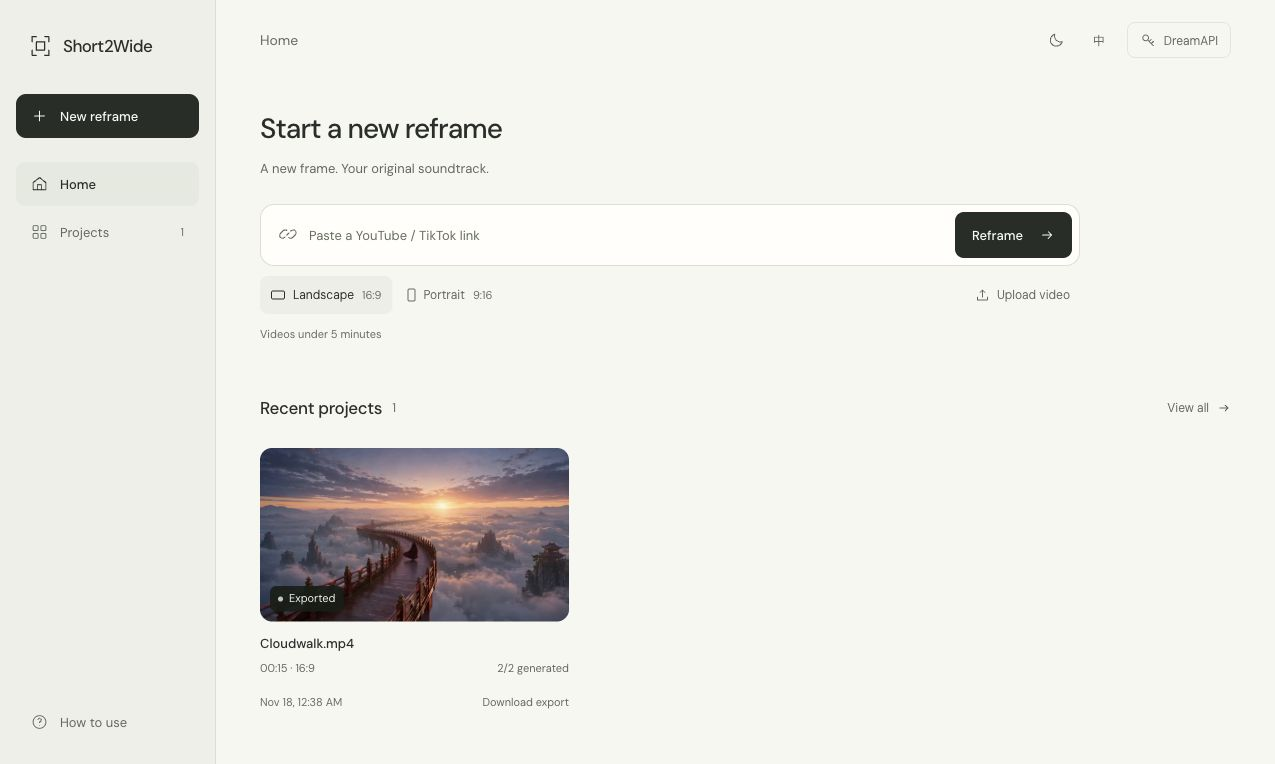
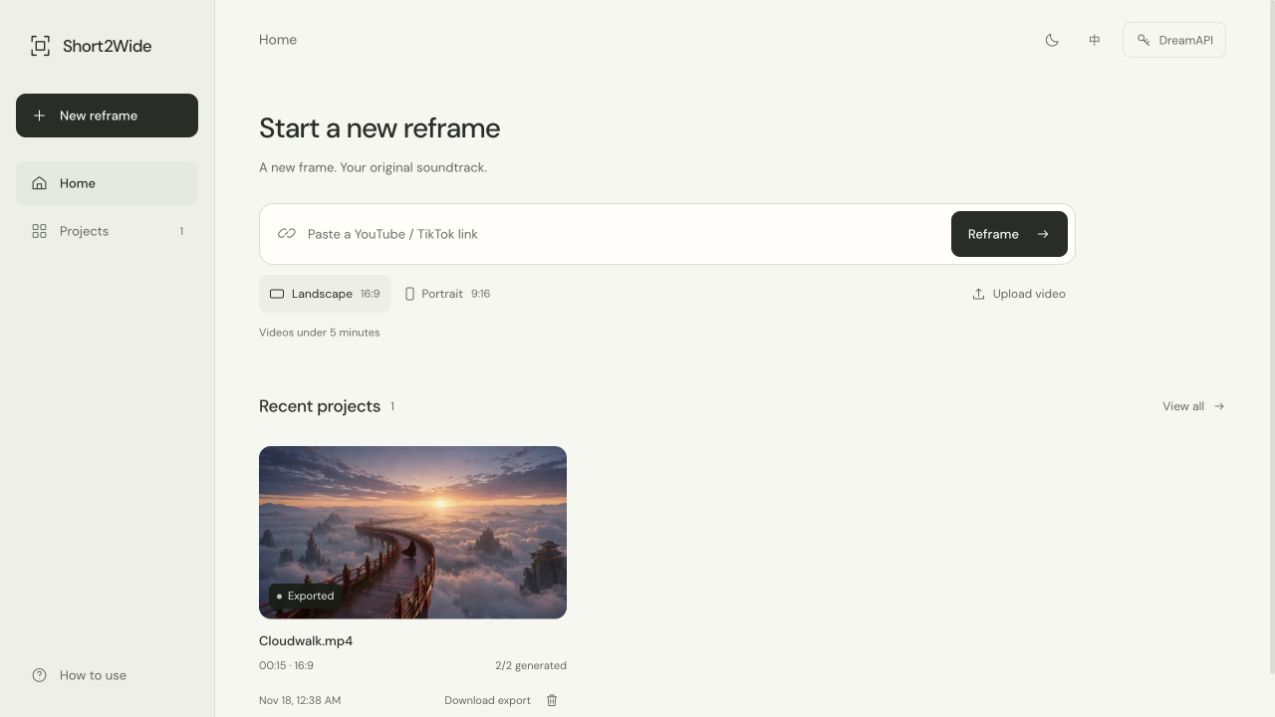
feat: confirm project deletion and retain sidebar in narrow windows

diff --git a/home.css b/home.css
@@ -74,8 +74,22 @@
 .usage-guide ol{list-style:none;margin:0;padding:0}.usage-guide li{padding:22px 0;border-top:1px solid var(--line)}.usage-guide h3{font-size:15px;font-weight:500;margin:0 0 8px}.usage-guide li p,.guide-note{font-size:13px;line-height:1.9;color:var(--secondary);margin:0}.guide-note{margin-top:20px;color:var(--muted)}.guide-start{display:inline-flex;align-items:center;gap:10px;min-height:44px;margin-top:24px;font-size:13px}
 .import-input-wrap .button.is-working:before{content:'';width:12px;height:12px;border:1px solid currentColor;border-right-color:transparent;border-radius:50%;animation:home-upload-spin .85s linear infinite;flex-shrink:0}
 @keyframes home-upload-spin{to{transform:rotate(360deg)}}
+.project-card-bottom>time{min-width:0;white-space:nowrap;overflow:hidden;text-overflow:ellipsis}
+.project-card-actions{display:flex;align-items:center;gap:6px;flex-shrink:0}
+.project-card-actions>a{display:inline-flex;align-items:center;min-height:30px;color:var(--secondary)}.project-card-actions>a:hover{color:var(--text)}
+.project-delete{display:flex;align-items:center;justify-content:center;width:30px;height:30px;padding:0;border-radius:7px;color:var(--muted)}.project-delete svg{width:15px;height:15px}.project-delete:hover:not(:disabled){color:var(--error);background:var(--raised)}
+.delete-dialog{width:min(420px,calc(100% - 32px));padding:28px;border:0;border-radius:16px;background:var(--surface);color:var(--text);box-shadow:0 20px 60px #0003}
+.delete-dialog::backdrop{background:#0006}.delete-dialog h2{font-size:20px;line-height:1.5;font-weight:500;margin:0 0 16px}
+.delete-project-name{font-size:14px;line-height:1.7;font-weight:500;overflow-wrap:anywhere;margin:0 0 10px}
+#delete-dialog-description,.delete-cloud-note{font-size:13px;line-height:1.9;color:var(--secondary);margin:0 0 12px}.delete-cloud-note{color:var(--muted)}
+.delete-dialog-actions{display:flex;justify-content:flex-end;gap:10px;margin-top:24px}.delete-dialog-actions .button{min-height:40px;padding:0 16px;border-radius:9px;font-size:13px}
+.button-danger{background:var(--error);color:var(--ground)}.button-danger:hover{filter:brightness(.95)}
+.delete-dialog .button.is-working:before{content:'';width:12px;height:12px;border:1px solid currentColor;border-right-color:transparent;border-radius:50%;animation:home-upload-spin .85s linear infinite}
+@media(prefers-reduced-motion:reduce){.delete-dialog .button.is-working:before{animation:none}}
 @media(min-width:1500px){.projects-grid{grid-template-columns:repeat(4,minmax(0,1fr))}}
 @media(max-width:1050px){.home-sidebar{width:188px;padding:26px 12px 18px}.home-shell{margin-left:188px}.home-header{padding:0 28px}.home-content{padding:8px 28px 40px}.home-wordmark{margin-left:8px;font-size:16px}.projects-grid{grid-template-columns:repeat(2,minmax(0,1fr))}}
-@media(max-width:720px){.home-sidebar{position:static;width:100%;height:auto;display:grid;grid-template-columns:1fr auto;gap:14px 12px;padding:18px 20px 12px;border-right:0;border-bottom:1px solid var(--line)}.home-wordmark{margin:0;font-size:16px;min-height:36px}.sidebar-create{margin:0;min-height:36px;font-size:12px;padding:0 12px;gap:7px}.sidebar-create svg{width:14px}.sidebar-navigation{flex-direction:row;gap:4px}.sidebar-navigation a,.sidebar-bottom a{min-height:36px;padding:0 10px;gap:8px;font-size:12px}.sidebar-navigation svg,.sidebar-bottom svg{width:15px;height:15px}.sidebar-bottom{margin:0;justify-self:end}.navigation-count{font-size:11px}.home-shell{margin-left:0}.home-header{height:64px;padding:0 20px}.home-header h1{font-size:13px}.home-content{padding:0 20px 32px}.new-project{padding:16px 0 32px}.new-project h2,.usage-guide>h2{font-size:24px}.import-description{margin:8px 0 20px;font-size:12px}.import-input-wrap{height:58px;padding:6px 6px 6px 12px;gap:8px}.import-input-wrap>svg{display:none}.import-input-wrap input{font-size:12px}.import-input-wrap .button{height:44px;padding:0 12px;font-size:12px;gap:8px}.import-input-wrap .button>svg{display:none}.home-ratios button{padding:0 8px;gap:6px;font-size:11px}.home-ratios small{font-size:11px}.local-upload{padding:0 4px;gap:5px;font-size:11px}.local-upload span{max-width:94px}.projects-heading{margin-bottom:18px}.projects-heading h2{font-size:16px}.projects-grid{gap:26px 16px}.project-card-image{border-radius:10px}.project-filters{gap:8px;margin-bottom:24px}.project-status-filter{min-width:112px}.projects-empty{padding:32px 20px}.usage-guide{padding-top:16px}.guide-intro{margin-bottom:20px}}
+@media(min-width:561px) and (max-width:820px){.home-sidebar{width:160px;padding:24px 12px 18px}.home-shell{margin-left:160px}.home-wordmark{margin:0 4px 30px;gap:8px;font-size:14px}.home-wordmark svg{width:22px;height:22px}.sidebar-create{padding:0 12px;gap:9px;font-size:12px}.sidebar-navigation a,.sidebar-bottom a{padding:0 12px}.home-header{padding:0 24px}.home-content{padding:8px 24px 40px}.projects-grid{gap:28px 16px}.home-ratios button{font-size:11px;padding:0 8px;gap:6px}.local-upload{font-size:11px;padding:0 4px;gap:5px}.local-upload span{max-width:140px}}
+@media(min-width:561px) and (max-width:650px){.projects-grid{grid-template-columns:1fr}}
+@media(max-width:560px){.home-sidebar{position:static;width:100%;height:auto;display:grid;grid-template-columns:1fr auto;gap:14px 12px;padding:18px 20px 12px;border-right:0;border-bottom:1px solid var(--line)}.home-wordmark{margin:0;font-size:16px;min-height:36px}.sidebar-create{margin:0;min-height:36px;font-size:12px;padding:0 12px;gap:7px}.sidebar-create svg{width:14px}.sidebar-navigation{flex-direction:row;gap:4px}.sidebar-navigation a,.sidebar-bottom a{min-height:36px;padding:0 10px;gap:8px;font-size:12px}.sidebar-navigation svg,.sidebar-bottom svg{width:15px;height:15px}.sidebar-bottom{margin:0;justify-self:end}.navigation-count{font-size:11px}.home-shell{margin-left:0}.home-header{height:64px;padding:0 20px}.home-header h1{font-size:13px}.home-content{padding:0 20px 32px}.new-project{padding:16px 0 32px}.new-project h2,.usage-guide>h2{font-size:24px}.import-description{margin:8px 0 20px;font-size:12px}.import-input-wrap{height:58px;padding:6px 6px 6px 12px;gap:8px}.import-input-wrap>svg{display:none}.import-input-wrap input{font-size:12px}.import-input-wrap .button{height:44px;padding:0 12px;font-size:12px;gap:8px}.import-input-wrap .button>svg{display:none}.home-ratios button{padding:0 8px;gap:6px;font-size:11px}.home-ratios small{font-size:11px}.local-upload{padding:0 4px;gap:5px;font-size:11px}.local-upload span{max-width:94px}.projects-heading{margin-bottom:18px}.projects-heading h2{font-size:16px}.projects-grid{gap:26px 16px}.project-card-image{border-radius:10px}.project-filters{gap:8px;margin-bottom:24px}.project-status-filter{min-width:112px}.projects-empty{padding:32px 20px}.usage-guide{padding-top:16px}.guide-intro{margin-bottom:20px}}
 @media(max-width:520px){.projects-grid{grid-template-columns:1fr}.project-card h3{font-size:14px}.project-card-meta,.project-card-bottom{font-size:12px}.project-card-status{font-size:11px}}
 @media(prefers-reduced-motion:reduce){.project-card-main:hover .project-card-image>img{transform:none}.import-input-wrap .button.is-working:before{animation:none}}

diff --git a/home.js b/home.js
@@ -52,6 +52,40 @@ window.reframeI18n.addMessages({
  '确认并导出':'Confirm and export','全部片段生成后，点击一次“确认全部并导出”。成片使用原始音轨。':'Once every segment is generated, click Confirm all & export. The final video uses the original soundtrack.',
  '生成会产生模型费用。画面重建可能改变文字、动作和时序，原音保留不代表同步已保证，请逐段检查。':'Generation incurs model charges. Reconstruction can change text, motion and timing. Keeping the original soundtrack does not guarantee synchronization; review every segment.'
 });
+window.reframeI18n.addMessages({
+ '删除这个项目？':'Delete this project?','删除项目':'Delete project','取消':'Cancel','处理中，暂不能删除':'Processing; deletion unavailable',
+ '项目及其视频将移入本机回收目录，之后可手动恢复。':'The project and its videos will move to a local recovery folder. You can restore them manually.',
+ '已提交的云端生成任务不会因此取消。':'This does not cancel previously submitted cloud generation tasks.',
+ '项目已移入回收目录':'Project moved to the recovery folder','正在删除…':'Deleting…','请确认删除项目。':'Confirm project deletion.',
+ '项目正在处理中，请等待完成后再删除。':'This project is processing. Wait for it to finish before deleting.',
+ '项目目录异常，无法删除。':'The project directory is invalid. Deletion was blocked.','回收目录异常，无法删除。':'The recovery folder is invalid. Deletion was blocked.',
+ '删除失败，请关闭占用项目文件的窗口后重试。':'Could not remove the project. Close windows using its files and retry.',
+ '删除失败，请重试。':'Could not remove the project. Please retry.','请重启工作台以启用项目删除。':'Restart Short2Wide to enable project deletion.'
+});
+const deleteDialog=document.querySelector('#delete-project-dialog'),cancelDelete=document.querySelector('#cancel-delete-project'),confirmDelete=document.querySelector('#confirm-delete-project'),deleteError=document.querySelector('#delete-project-error');
+let selectedForDeletion=null,deletingProject=false,deleteOpener=null;
+function openDeleteProject(project,opener){
+ if(project.busy){window.reframeUI.toast('项目正在处理中，请等待完成后再删除。','error');return}
+ selectedForDeletion=project;deleteOpener=opener;deleteError.hidden=true;
+ document.querySelector('#delete-project-name').textContent=project.name==='Link import'?window.reframeI18n.t('视频项目'):project.name;
+ document.querySelector('#delete-cloud-note').hidden=!!project.export_ready;
+ deleteDialog.showModal();cancelDelete.focus();
+}
+function deleteBusy(value){deletingProject=value;confirmDelete.disabled=value;cancelDelete.disabled=value;confirmDelete.classList.toggle('is-working',value);confirmDelete.textContent=window.reframeI18n.t(value?'正在删除…':'删除项目');deleteDialog.setAttribute('aria-busy',String(value))}
+cancelDelete.onclick=()=>{if(!deletingProject)deleteDialog.close()};
+deleteDialog.addEventListener('cancel',event=>{if(deletingProject)event.preventDefault()});
+deleteDialog.addEventListener('close',()=>{selectedForDeletion=null;if(deleteOpener?.isConnected)deleteOpener.focus();else document.querySelector('#projects-title').focus()});
+confirmDelete.onclick=async()=>{
+ if(!selectedForDeletion||deletingProject)return;
+ const project=selectedForDeletion;deleteError.hidden=true;deleteBusy(true);
+ try{
+  const response=await fetch(`/api/projects/${project.id}`,{method:'DELETE',headers:{'Content-Type':'application/json'},body:JSON.stringify({confirm:true}),signal:AbortSignal.timeout(15000)});
+  if([404,405,501].includes(response.status))throw Error('请重启工作台以启用项目删除。');
+  const data=await response.json();if(!response.ok||data.deleted!==true)throw Error(data.error||'删除失败，请重试。');
+  projects=projects.filter(item=>item.id!==project.id);drawProjects();deleteDialog.close();window.reframeUI.toast('项目已移入回收目录','success');
+ }catch(error){deleteError.textContent=window.reframeUI.message(error);deleteError.hidden=false;window.reframeUI.toast(deleteError.textContent,'error')}
+ finally{deleteBusy(false);if(deleteDialog.open)cancelDelete.focus()}
+};
 const projectsGrid=document.querySelector('#projects-grid');
 const search=document.querySelector('#project-search'),statusFilter=document.querySelector('#project-filter');
 let projects=[],loadingProjects=false,projectsLoaded=false,projectsError=false,currentView='home';
@@ -80,7 +114,12 @@ function projectCard(project){
  const bottom=element('div','project-card-bottom'),date=new Date(project.updated*1000),time=element('time');time.dateTime=date.toISOString();
  time.textContent=new Intl.DateTimeFormat(tr.language()==='en'?'en-US':'zh-CN',{month:'short',day:'numeric',hour:'2-digit',minute:'2-digit'}).format(date);time.dataset.noTranslate='';
  const action=element('a','',t(project.export_ready?'下载成片':'继续编辑'));action.href=project.export_ready?`/media/${project.id}/export.mp4`:`project.html?id=${project.id}`;if(project.export_ready)action.download='reframed.mp4';
- bottom.append(time,action);card.append(link,bottom);return card;
+ const actions=element('div','project-card-actions');
+ const remove=element('button','project-delete');remove.type='button';remove.disabled=!!project.busy;
+ const deleteLabel=t(project.busy?'处理中，暂不能删除':'删除项目');remove.title=deleteLabel;remove.setAttribute('aria-label',`${deleteLabel}: ${title.textContent}`);
+ remove.innerHTML='<svg viewBox="0 0 24 24" aria-hidden="true"><path d="M4 7h16M9 7V4h6v3M6 7l1 14h10l1-14M10 11v6m4-6v6"/></svg>';
+ remove.onclick=()=>openDeleteProject(project,remove);actions.append(action,remove);
+ time.title=time.textContent;bottom.append(time,actions);card.append(link,bottom);return card;
 }
 function drawProjects(){
  const t=window.reframeI18n.t,all=currentView==='projects';

diff --git a/index.html b/index.html
@@ -1,6 +1,6 @@
 <!doctype html>
 <html lang="zh-CN">
-<head><meta charset="utf-8"><meta name="viewport" content="width=device-width,initial-scale=1"><meta name="theme-color" content="#f6f5f1"><meta name="description" content="把已有视频改成新的画幅，保留原音，逐段核对"><title>画幅工作台</title><link rel="icon" href="assets/favicon.svg" type="image/svg+xml"><script src="preferences.js"></script><link rel="stylesheet" href="styles.css"><link rel="stylesheet" href="settings.css"><link rel="stylesheet" href="home.css?v=0.1.7"><script src="i18n.js" defer></script><script src="ui-feedback.js" defer></script><script src="settings.js" defer></script><script src="home.js?v=0.1.7" defer></script></head>
+<head><meta charset="utf-8"><meta name="viewport" content="width=device-width,initial-scale=1"><meta name="theme-color" content="#f6f5f1"><meta name="description" content="把已有视频改成新的画幅，保留原音，逐段核对"><title>画幅工作台</title><link rel="icon" href="assets/favicon.svg" type="image/svg+xml"><script src="preferences.js"></script><link rel="stylesheet" href="styles.css"><link rel="stylesheet" href="settings.css"><link rel="stylesheet" href="home.css?v=0.1.8-32a8d8cc"><script src="i18n.js" defer></script><script src="ui-feedback.js" defer></script><script src="settings.js" defer></script><script src="home.js?v=0.1.8-6214ab9b" defer></script></head>
 <body class="home-page">
 <a class="skip-link" href="#home-main">跳到主要内容</a>
 <svg class="svg-defs" aria-hidden="true" xmlns="http://www.w3.org/2000/svg"><defs>
@@ -33,7 +33,7 @@
 <form id="import-video" class="import-form" novalidate><label class="sr-only" for="home-source">视频链接</label><div class="import-input-wrap"><svg><use href="#i-link"/></svg><input id="home-source" type="url" placeholder="粘贴 YouTube / TikTok 链接" autocomplete="off" aria-describedby="import-help import-error"><button type="submit" class="button button-primary"><span>开始改编</span><svg><use href="#i-arrow"/></svg></button></div><div class="home-import-options"><div class="home-ratios" role="group" aria-label="目标画幅"><button type="button" class="active" data-home-ratio="16:9" aria-pressed="true"><span class="format-icon horizontal"></span><span>横屏</span><small>16:9</small></button><button type="button" data-home-ratio="9:16" aria-pressed="false"><span class="format-icon vertical"></span><span>竖屏</span><small>9:16</small></button></div><button type="button" id="home-upload" class="local-upload"><svg><use href="#i-upload"/></svg><span id="home-file-name">上传视频</span></button><input id="home-file" type="file" accept="video/*" hidden></div><p id="import-error" class="home-error" role="alert" hidden></p><p class="import-help" id="import-help">支持小于5分钟的视频</p></form>
     </section>
     <section id="project-library" class="project-library" aria-labelledby="projects-title">
-      <div class="projects-heading"><div><h2 id="projects-title">最近项目</h2><span id="projects-count" data-no-translate></span></div><div class="projects-actions"><button type="button" id="refresh-projects" class="text-button" hidden>刷新</button><a href="#projects" id="all-projects-link">查看全部<svg><use href="#i-arrow"/></svg></a></div></div>
+      <div class="projects-heading"><div><h2 id="projects-title" tabindex="-1">最近项目</h2><span id="projects-count" data-no-translate></span></div><div class="projects-actions"><button type="button" id="refresh-projects" class="text-button" hidden>刷新</button><a href="#projects" id="all-projects-link">查看全部<svg><use href="#i-arrow"/></svg></a></div></div>
       <div class="project-filters" id="project-filters" hidden>
         <label class="project-search"><svg><use href="#i-search"/></svg><input id="project-search" type="search" placeholder="搜索项目名称" aria-label="搜索项目名称" autocomplete="off"></label>
         <label class="project-status-filter"><span class="sr-only">项目状态</span><select id="project-filter" aria-label="项目状态"><option value="all">全部状态</option><option value="exported">已导出</option><option value="unfinished">未完成</option></select><svg><use href="#i-down"/></svg></label>
@@ -53,4 +53,12 @@
     </section>
   </main>
 </div>
+<dialog id="delete-project-dialog" class="delete-dialog" aria-labelledby="delete-dialog-title" aria-describedby="delete-dialog-description">
+  <h2 id="delete-dialog-title">删除这个项目？</h2>
+  <p id="delete-project-name" class="delete-project-name" data-no-translate></p>
+  <p id="delete-dialog-description">项目及其视频将移入本机回收目录，之后可手动恢复。</p>
+  <p id="delete-cloud-note" class="delete-cloud-note" hidden>已提交的云端生成任务不会因此取消。</p>
+  <p id="delete-project-error" class="home-error" role="alert" hidden></p>
+  <div class="delete-dialog-actions"><button id="cancel-delete-project" type="button" class="button button-secondary" autofocus>取消</button><button id="confirm-delete-project" type="button" class="button button-danger">删除项目</button></div>
+</dialog>
 </body></html>

diff --git a/tests/test_pipeline.py b/tests/test_pipeline.py
@@ -1,5 +1,6 @@
 import json
 import math
+import os
 import struct
 import tempfile
 import unittest
@@ -9,6 +10,36 @@ import pipeline
 
 
 class PipelineTests(unittest.TestCase):
+    def test_delete_preserves_project_files_for_recovery_and_blocks_busy_projects(self):
+        with tempfile.TemporaryDirectory() as directory, patch.object(pipeline, 'DATA', Path(directory)/'projects'):
+            project=pipeline.create('待删除项目 中文.mp4','16:9');pid=project['id'];root=pipeline.folder(pid)
+            other=pipeline.create('Keep.mp4','9:16')
+            (root/'input.media').write_bytes(b'original project media')
+            (root/'shot-0-generated.mp4').write_bytes(b'generated media')
+            outside=Path(directory)/'original-upload.mp4';outside.write_bytes(b'external upload')
+            pipeline.ACTIVE.add(pid)
+            try:
+                with self.assertRaises(pipeline.WorkflowError):pipeline.delete_project(pid)
+                self.assertTrue(root.is_dir())
+            finally:pipeline.ACTIVE.discard(pid)
+            destination=pipeline.DATA.resolve().parent/'trash'/pipeline.delete_project(pid)
+            self.assertFalse(root.exists())
+            self.assertEqual((destination/'input.media').read_bytes(),b'original project media')
+            self.assertEqual((destination/'shot-0-generated.mp4').read_bytes(),b'generated media')
+            self.assertEqual(outside.read_bytes(),b'external upload')
+            self.assertEqual([p['id'] for p in pipeline.project_summaries()['projects']],[other['id']])
+            self.assertIsNone(pipeline.delete_project(pid))
+            destination.rename(root)
+            self.assertEqual(pipeline.load(pid)['name'],'待删除项目 中文.mp4')
+
+    @unittest.skipIf(os.name=='nt','Creating a symlink requires additional Windows privileges')
+    def test_delete_never_follows_a_project_directory_symlink(self):
+        with tempfile.TemporaryDirectory() as directory, patch.object(pipeline, 'DATA', Path(directory)/'projects'):
+            pipeline.DATA.mkdir();outside=Path(directory)/'outside';outside.mkdir();(outside/'keep.txt').write_text('keep')
+            project_id='a'*32;pipeline.folder(project_id).symlink_to(outside,target_is_directory=True)
+            with self.assertRaises(pipeline.WorkflowError):pipeline.delete_project(project_id)
+            self.assertEqual((outside/'keep.txt').read_text(),'keep')
+
     def test_cut_plan_covers_timeline_without_tiny_tail(self):
         for duration in (1.2, 4, 12.2, 25, 128.7, 299.9):
             pieces = pipeline.plan_segments(duration, [8.8, 10.4, 24, 100])

diff --git a/tests/test_server.py b/tests/test_server.py
@@ -80,6 +80,26 @@ class SettingsTests(unittest.TestCase):
         self.assertEqual(self.request('GET', '/assets/../server.py')[0], 404)
         self.assertEqual(self.request('GET', '/assets/')[0], 404)
 
+    def test_project_deletion_requires_confirmation_and_respects_active_work(self):
+        with patch.object(pipeline,'DATA',Path(self.temp.name)/'projects'):
+            project=pipeline.create('Delete confirmation test.mp4','16:9');pid=project['id'];root=pipeline.folder(pid)
+            (root/'input.media').write_bytes(b'preserve this media')
+            route=f'/api/projects/{pid}';headers={'Content-Type':'application/json','Origin':self.origin}
+            for payload in ({},{'confirm':False},{'confirm':1},{'confirm':'true'}):
+                self.assertEqual(self.request('DELETE',route,json.dumps(payload),headers)[0],400)
+                self.assertTrue(root.exists())
+            self.assertEqual(self.request('DELETE',route,'{"confirm":true}',{**headers,'Origin':'https://other.example'})[0],403)
+            self.assertEqual(self.request('DELETE',route,'{"confirm":true}',{**headers,'Content-Type':'text/plain'})[0],415)
+            pipeline.ACTIVE.add(pid)
+            try:self.assertEqual(self.request('DELETE',route,'{"confirm":true}',headers)[0],409)
+            finally:pipeline.ACTIVE.discard(pid)
+            status,body=self.request('DELETE',route,'{"confirm":true}',headers)
+            self.assertEqual(status,200);self.assertTrue(json.loads(body)['deleted']);self.assertFalse(root.exists())
+            self.assertEqual(json.loads(self.request('GET','/api/projects')[1])['projects'],[])
+            archived=list((pipeline.DATA.parent/'trash').glob('*/input.media'))
+            self.assertEqual(len(archived),1);self.assertEqual(archived[0].read_bytes(),b'preserve this media')
+            self.assertEqual(self.request('DELETE',route,'{"confirm":true}',headers)[0],200)
+
 
 if __name__ == '__main__':
     unittest.main()

diff --git a/server.py b/server.py
@@ -231,6 +231,26 @@ class Handler(SimpleHTTPRequestHandler):
     def do_DELETE(self):
         if not self.local_request():
             return self.reply(403, {'error': 'origin'})
+        match = re.fullmatch(r'/api/projects/([0-9a-f]{32})', self.path)
+        if match:
+            if self.headers.get('Content-Type', '').split(';')[0] != 'application/json':
+                return self.reply(415, {'error': 'content_type'})
+            try:
+                length = int(self.headers.get('Content-Length', '0'))
+                if not 0 < length <= 1024:
+                    raise ValueError()
+                data = json.loads(self.rfile.read(length))
+                if not isinstance(data, dict) or data.get('confirm') is not True:
+                    raise ValueError()
+            except (ValueError, UnicodeDecodeError):
+                return self.reply(400, {'error': '请确认删除项目。'})
+            try:
+                pipeline.delete_project(match[1])
+            except pipeline.WorkflowError as error:
+                return self.reply(409, {'error': str(error)})
+            except OSError:
+                return self.reply(500, {'error': '删除失败，请关闭占用项目文件的窗口后重试。'})
+            return self.reply(200, {'id': match[1], 'deleted': True})
         if self.path != '/api/settings/dreamapi':
             return self.reply(404, {'error': 'not_found'})
         if self.headers.get('Content-Type', '').split(';')[0] != 'application/json':

diff --git a/pipeline.py b/pipeline.py
@@ -52,6 +52,26 @@ def folder(project_id):
     return DATA / project_id
 
 
+def delete_project(project_id):
+    """Remove a project from the library while retaining its files for recovery."""
+    with LOCK:
+        path = folder(project_id)
+        if project_id in ACTIVE:
+            raise WorkflowError('项目正在处理中，请等待完成后再删除。')
+        if not path.exists():
+            return None
+        root = DATA.resolve()
+        if path.is_symlink() or path.resolve() != root / project_id:
+            raise WorkflowError('项目目录异常，无法删除。')
+        trash = root.parent / 'trash'
+        if trash.is_symlink():
+            raise WorkflowError('回收目录异常，无法删除。')
+        trash.mkdir(mode=0o700, parents=True, exist_ok=True)
+        destination = trash / f'{project_id}-{uuid.uuid4().hex}'
+        path.rename(destination)
+        return destination.name
+
+
 def load(project_id):
     with LOCK:
         try:

diff --git a/README.md b/README.md
@@ -25,9 +25,11 @@ Optional two-cue timing correction and model-audio generation are folded into **
 
 The left sidebar separates **Home** from **Projects**. Home offers video import and the six most recent projects. Projects shows the complete library with name search and exported/unfinished filters. Cards wrap into additional rows as the library grows; the project count stays visible in navigation. Open a card to continue, or download a completed export directly.
 
-**New reframe** returns to and focuses the import field. **How to use** opens a separate guide; the old decorative workflow footer is removed. On phones, navigation moves to a compact top area. Theme, language and DreamAPI controls remain available.
+**New reframe** returns to and focuses the import field. **How to use** opens a separate guide; the old decorative workflow footer is removed. Narrow desktop windows keep the sidebar; only screens 560 px wide or less use compact top navigation. Theme, language and DreamAPI controls remain available.
 
 ![Local project library](docs/assets/home.en.jpg)
+
+Use the trash button on a project card to delete it. A second confirmation names the project; **Cancel** keeps it unchanged. Confirming removes it from Home and Projects and moves its files into the local recovery folder. Processing projects cannot be deleted. Deleting a project does not cancel a previously submitted cloud generation task. See recovery paths below.
 
 ## Install and run
 
@@ -95,6 +97,8 @@ Open [http://127.0.0.1:4178/](http://127.0.0.1:4178/), configure your key throug
 
 Keep the terminal open. Press `Ctrl+C` to stop; if Command Prompt asks whether to terminate the batch job, enter `Y`. Next time, just run the launcher for your platform. If the port is occupied, stop the earlier server or choose another port.
 
+After updating the code, stop the running server with `Ctrl+C`, start it again with your platform’s launcher, and refresh the browser. Backend changes such as project deletion require a restart.
+
 The DreamAPI adapter is bundled; no agent skill, AI coding environment or Node installation is needed for normal use.
 
 ## Data and recovery
@@ -103,6 +107,7 @@ The DreamAPI adapter is bundled; no agent skill, AI coding environment or Node i
 - Keys are stored outside the repository at `~/.config/reframe-studio/dreamapi.json`, with 0600 permissions on macOS/Linux; Windows uses the permissions inherited from your user-profile directory. The app never persists them in browser storage or returns a saved key through its API.
 - On Windows, `~` means your user-profile folder: credentials are at `%USERPROFILE%\.config\reframe-studio\dreamapi.json`; projects are at `%USERPROFILE%\.local\share\reframe-studio\projects\`.
 - Projects remain at `~/.local/share/reframe-studio/projects/` to preserve compatibility with the original local prototype.
+- Deleted projects move to `~/.local/share/reframe-studio/trash/` (Windows: `%USERPROFILE%\.local\share\reframe-studio\trash\`). This is an application recovery folder, not the operating system’s Trash/Recycle Bin. To restore, stop the app and move the archived folder back to `projects/`, renaming it to the original 32-character project ID (the first 32 characters of the archive folder name, also stored in `project.json`), then restart. Do not overwrite an existing project. There is no in-app restore button yet. Files continue to occupy disk space until you manually remove the archived folder.
 - Uploading from the homepage transfers the file only to the local app. Clicking Generate uploads the reference segment to DreamAPI and may incur charges.
 - Task IDs are persisted. A timed-out query resumes the **same task**, never silently submits another. Ambiguous submissions without an ID stop for manual verification. New attempts preserve prior task information.
 - Failed local alignment preserves the previously playable result. Source and model-generated files are kept separately from local audio previews and exports.
@@ -125,7 +130,7 @@ node --test tests/test_playback.mjs
 python -B -m unittest discover -s tests -t . -q
 ```
 
-Tests use temporary media, stub provider responses and an isolated local server; they do not submit paid generation tasks. They cover independent playback, sync restarts, one-click export, original-audio previews/exports, history metadata, alignment recovery, uncertain task responses and credential boundaries. See [verification notes](docs/verification.md).
+Tests use temporary media, stub provider responses and an isolated local server; they do not submit paid generation tasks. They cover independent playback, sync restarts, one-click export, original-audio previews/exports, history metadata, confirmed project deletion and recovery, active-project guards, alignment recovery, uncertain task responses and credential boundaries. See [verification notes](docs/verification.md).
 
 ## License and media
 

diff --git a/docs/verification.md b/docs/verification.md
@@ -2,7 +2,7 @@
 
 ## Automated checks
 
-Suite: 4 Node playback tests and 15 Python tests, including a native Windows launcher smoke test (skipped on other platforms). Tests use temporary fixtures and do not generate paid requests.
+Suite: 4 Node playback tests and 18 Python tests, including a native Windows launcher smoke test (skipped on other platforms). Tests use temporary fixtures and do not generate paid requests.
 
 - Independent left/right playback and seeking; solo actions release sync without controlling the other player.
 - Every explicit sync start restarts the selected source segment and generated result together.
@@ -11,6 +11,7 @@ Suite: 4 Node playback tests and 15 Python tests, including a native Windows lau
 - FFmpeg preparation, short silent video, timeline coverage and exact source-audio selection in previews and exports.
 - Failed alignment preserves the prior playable result; successful alignment invalidates the old preview cache.
 - Project summaries preserve original project IDs and expose progress, thumbnails and export status.
+- Project deletion requires strict explicit confirmation, rejects cross-origin requests, blocks active projects, refuses symlink escapes, and retains media for manual recovery. Repeated deletion is idempotent.
 - Task-query errors retain the same task ID. Unknown submissions block new requests. Explicit remote terminal failure is distinguished from transport/parse errors.
 - Credential storage is private and never returned by the API. Cross-origin mutations and private static-file access are rejected.
 - The bundled provider's query path never submits a new task; output-audio generation can be disabled explicitly.
@@ -48,3 +49,11 @@ Project JSON, FFmpeg manifests and provider subprocess streams explicitly use UT
 Browser verification used actual local projects plus an isolated, mutation-disabled layout fixture service. With twelve fixture entries, Projects rendered twelve cards across responsive rows; name search selected one match, the exported filter selected four, and Home retained six recent cards while navigation showed the full count. Search no-match/clear, empty library, failed-load/refresh recovery, the help route, import validation, and New reframe input focus were exercised in Chinese/English and light/dark. Layout widths 1280, 768 and 390 had no horizontal overflow. Fixture entries were never written into the user's project directory. Public README captures contain only the creator-owned actual completed cloud-walk project.
 
 This UI update changes no generation, playback, cue alignment or export semantics. Original local project file hashes were verified separately; obsolete homepage-only media and type assets were moved out of the distribution.
+
+## Narrow windows and confirmed deletion (v0.1.8)
+
+The sidebar remains visible at 699px and 561px; top navigation starts at 560px. Layouts at 390, 560, 561, 699 and 1280px were inspected. The user’s external Chrome tab was 1920px with stale HTML; a refresh displayed the sidebar. CSS/JS asset URLs are versioned for this update.
+
+Deletion was exercised against a separate temporary project directory and the real DELETE handler: Cancel left four entries, confirmation removed only the selected test project and reduced the count to three, and its media remained in the temporary recovery folder. Busy deletion was disabled. A simulated file-access failure kept the project and dialog open with English inline/toast feedback; keyboard focus returned to Cancel. Escape closed the dialog without deleting. Confirmation was inspected at 390, 699 and 1280px, including Chinese/English and light/dark. No real user project was deleted and no paid generation was submitted.
+
+The main app’s existing process was left running; the new backend endpoint becomes available after restarting with the normal launcher. The interface reports this explicitly when an older server does not recognize deletion. Both README home captures now show the current card controls and the creator-owned actual Cloudwalk record only. Editor captures remain current because this release does not change the editor.

diff --git a/README.zh-CN.md b/README.zh-CN.md
@@ -25,9 +25,11 @@ https://github.com/user-attachments/assets/d491bf93-465d-4457-af80-4c962772e220
 
 左侧导航区分 **首页** 和 **项目**：首页提供导入入口与最近 6 个项目；项目页展示全部项目，支持名称搜索及已导出/未完成筛选。项目增加时自动换行，导航中持续显示总数；点击卡片继续编辑，也可直接下载已有成片。
 
-**新建改编** 会返回并聚焦导入框，**使用说明** 单独打开帮助页，原来底部仅展示流程的横栏已移除。手机端改为紧凑的顶部导航，明暗、中英文和 DreamAPI 设置入口保留。
+**新建改编** 会返回并聚焦导入框，**使用说明** 单独打开帮助页，原来底部仅展示流程的横栏已移除。窄桌面窗口保留侧栏，只有宽度不超过 560px 时改为紧凑的顶部导航；明暗、中英文和 DreamAPI 设置入口保留。
 
 ![本机项目](docs/assets/home.zh-CN.jpg)
+
+点击项目卡片上的垃圾桶按钮，会弹出包含项目名称的二次确认；点击 **取消** 不作修改。确认后，项目从首页与项目库移除，文件移入本机回收目录。处理中的项目不能删除；删除也不会取消已经提交到云端的生成任务。恢复方式见下文。
 
 ## 安装运行
 
@@ -95,6 +97,8 @@ Short2Wide
 
 使用时保持终端开启；按 `Ctrl+C` 停止。如果 Windows 命令提示符询问是否终止批处理，输入 `Y`。下次只需运行对应平台的启动脚本。端口被占用时，停止旧服务或换一个端口。
 
+更新代码后，先在原终端按 `Ctrl+C` 停止服务，再运行对应平台的启动脚本，并刷新浏览器。项目删除等后端更新需要重启才能生效。
+
 项目已内置 DreamAPI 适配器，正常使用不需要 agent skill、AI 编程工具或 Node。
 
 ## 数据与恢复
@@ -103,6 +107,7 @@ Short2Wide
 - 密钥保存在仓库之外的 `~/.config/reframe-studio/dreamapi.json`，macOS/Linux 权限为0600，Windows 继承用户目录权限；不存浏览器、不回传已保存密钥。
 - Windows 下，密钥路径为 `%USERPROFILE%\.config\reframe-studio\dreamapi.json`，项目路径为 `%USERPROFILE%\.local\share\reframe-studio\projects\`。
 - 项目位于 `~/.local/share/reframe-studio/projects/`，保留旧版本本机项目兼容性。
+- 删除的项目移至 `~/.local/share/reframe-studio/trash/`，Windows 对应 `%USERPROFILE%\.local\share\reframe-studio\trash\`。这是应用自己的回收目录，不是系统废纸篓/回收站。恢复时先停止应用，把其中的项目文件夹移回 `projects/`，将文件夹名改回原来的 32 位项目 ID（回收文件夹名的前 32 位，`project.json` 中也有），再启动应用；不要覆盖已有项目。目前没有界面恢复按钮。文件仍占磁盘空间，手动清理回收目录后才释放。
 - 首页上传只进入本机。点击生成时才上传参考片段并调用计费模型。
 - 查询超时继续查询原任务；无任务ID的未知提交停止，避免重复扣费。新的明确重试保留旧任务记录。
 - 对齐失败保留此前可播放的文件，原始素材、模型输出、原音预览和成片分开保存。

diff --git a/docs/showcase.md b/docs/showcase.md
@@ -10,6 +10,8 @@ The 15-second source was split into two segments and generated with DreamAPI See
 
 The bilingual 20-second films show actual before/after footage and the real workspace. Titles and layout are promotional editing; generation waiting time is omitted. The continuous result excerpt starts at the beginning of the exported video. No fabricated model result is substituted.
 
+The films were recorded before the sidebar and project-library update. The README screenshots show the current interface; generation, comparison and export follow the same flow.
+
 The model reconstructs the scene and changes camera movement and timing. This is a real landscape example, not evidence of exact text, numbers, lip sync or semantic-event alignment. Those require review for each video. The app preserves the original soundtrack but does not guarantee every generated visual event matches it.
 
 The tool runs locally; DreamAPI/Seedance generation is a paid remote service. See [verification notes](verification.md) for checks and the provider failure/recovery record.
